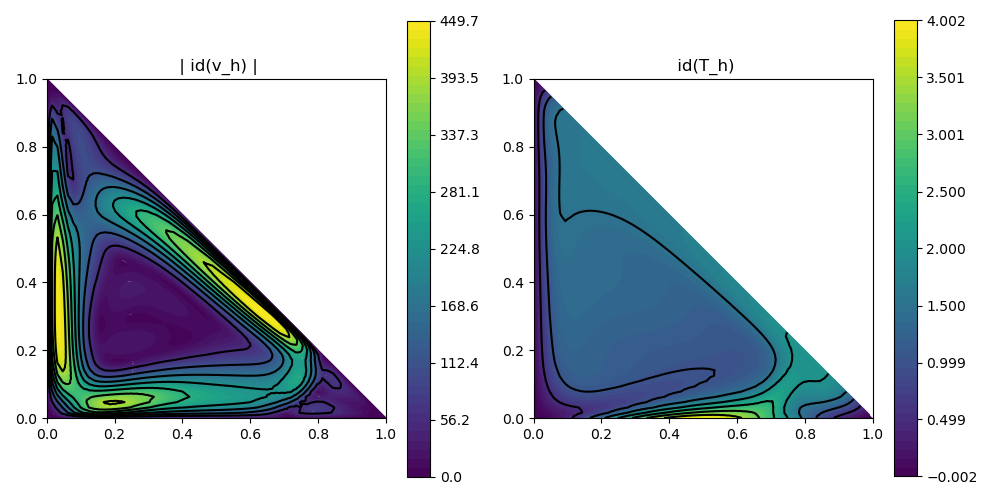
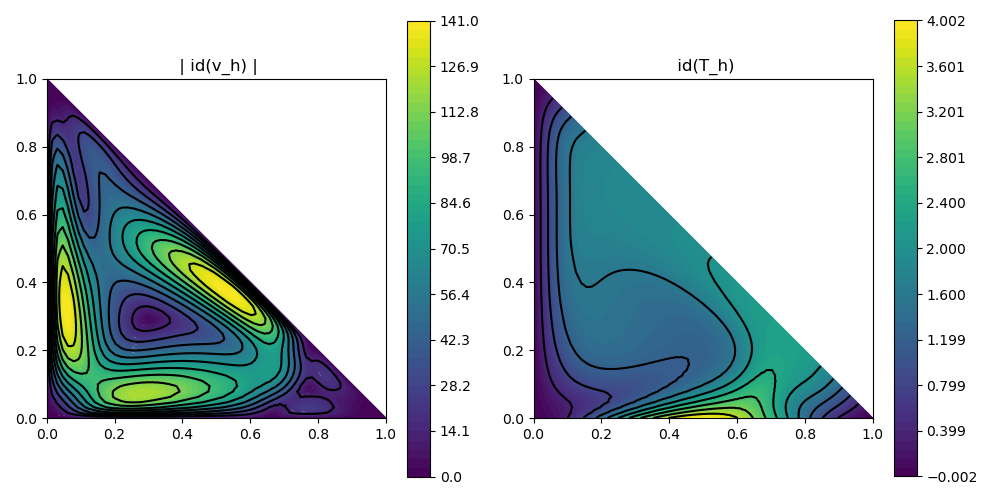
NonlinearForm now can be treated with automatic differentiation even if it depends on more than one unknown (this leads to one matrix block for each involved unknown), as an Example the natural convection problem (Example223) now is solved with auto-differentiated Newton's scheme by default (the And

diff --git a/README.md b/README.md
@@ -19,7 +19,7 @@ finite element module for Julia focussing on gradient-robust finite element meth
 - grids by [ExtendableGrids.jl](https://github.com/j-fu/ExtendableGrids.jl) in principle allow for mixed element geometries in the grid
   (but currently only supported with Triangle2D/Parallelogram2D mixed meshes and certain finite elements)
 - PDEDescription module for easy and close-to-physics problem description (as variational equations) independent from the actual discretisation
-- Newton terms for nonlinear operators are added automatically by automatic differentation (experimental feature)
+- Newton terms for nonlinear operators are added automatically by automatic differentiation (experimental feature)
 - solver can run fixed-point iterations between subsets of equations of the PDEDescription (possibly with Anderson acceleration)
 - time-dependent problems can be integrated in time by own backward Euler or Crank-Nicolson implementation or via the external module [DifferentialEquations.jl](https://github.com/SciML/DifferentialEquations.jl) (experimental)
 - reconstruction operators for gradient-robust Stokes discretisations (BR->RT0/BDM1 or CR->RT0 in 2D/3D, and P2B->RT1/BDM2 in 2D, more to come)
@@ -29,7 +29,7 @@ finite element module for Julia focussing on gradient-robust finite element meth
 
 ### Example
 
-The following example demonstrates how to setup a Poisson problem. More extensive examples can be found in the [documentation](https://chmerdon.github.io/GradientRobustMultiPhysics.jl/stable/index.html).
+The following minimal example demonstrates how to setup a Poisson problem. More extensive examples can be found in the [documentation](https://chmerdon.github.io/GradientRobustMultiPhysics.jl/stable/index.html).
 
 ```julia
 using GradientRobustMultiPhysics
@@ -44,10 +44,10 @@ Problem = PDEDescription("Poisson problem")
 add_unknown!(Problem; unknown_name = "u", equation_name = "Poisson equation")
 
 # add left-hand side PDEoperator(s) (here: only Laplacian with diffusion coefficient 1e-3)
-add_operator!(Problem, [1,1], LaplaceOperator(1e-3; AT = ON_CELLS))
+add_operator!(Problem, [1,1], LaplaceOperator(1e-3))
 
 # add right-hand side data (here: f = [1] in region(s) [1])
-add_rhsdata!(Problem, 1, RhsOperator(Identity, [1], DataFunction([1]; name = "f"); AT = ON_CELLS))
+add_rhsdata!(Problem, 1, RhsOperator(Identity, [1], DataFunction([1]; name = "f")))
 
 # add boundary data (here: zero data for boundary regions 1:4)
 add_boundarydata!(Problem, 1, [1,2,3,4], HomogeneousDirichletBoundary)
